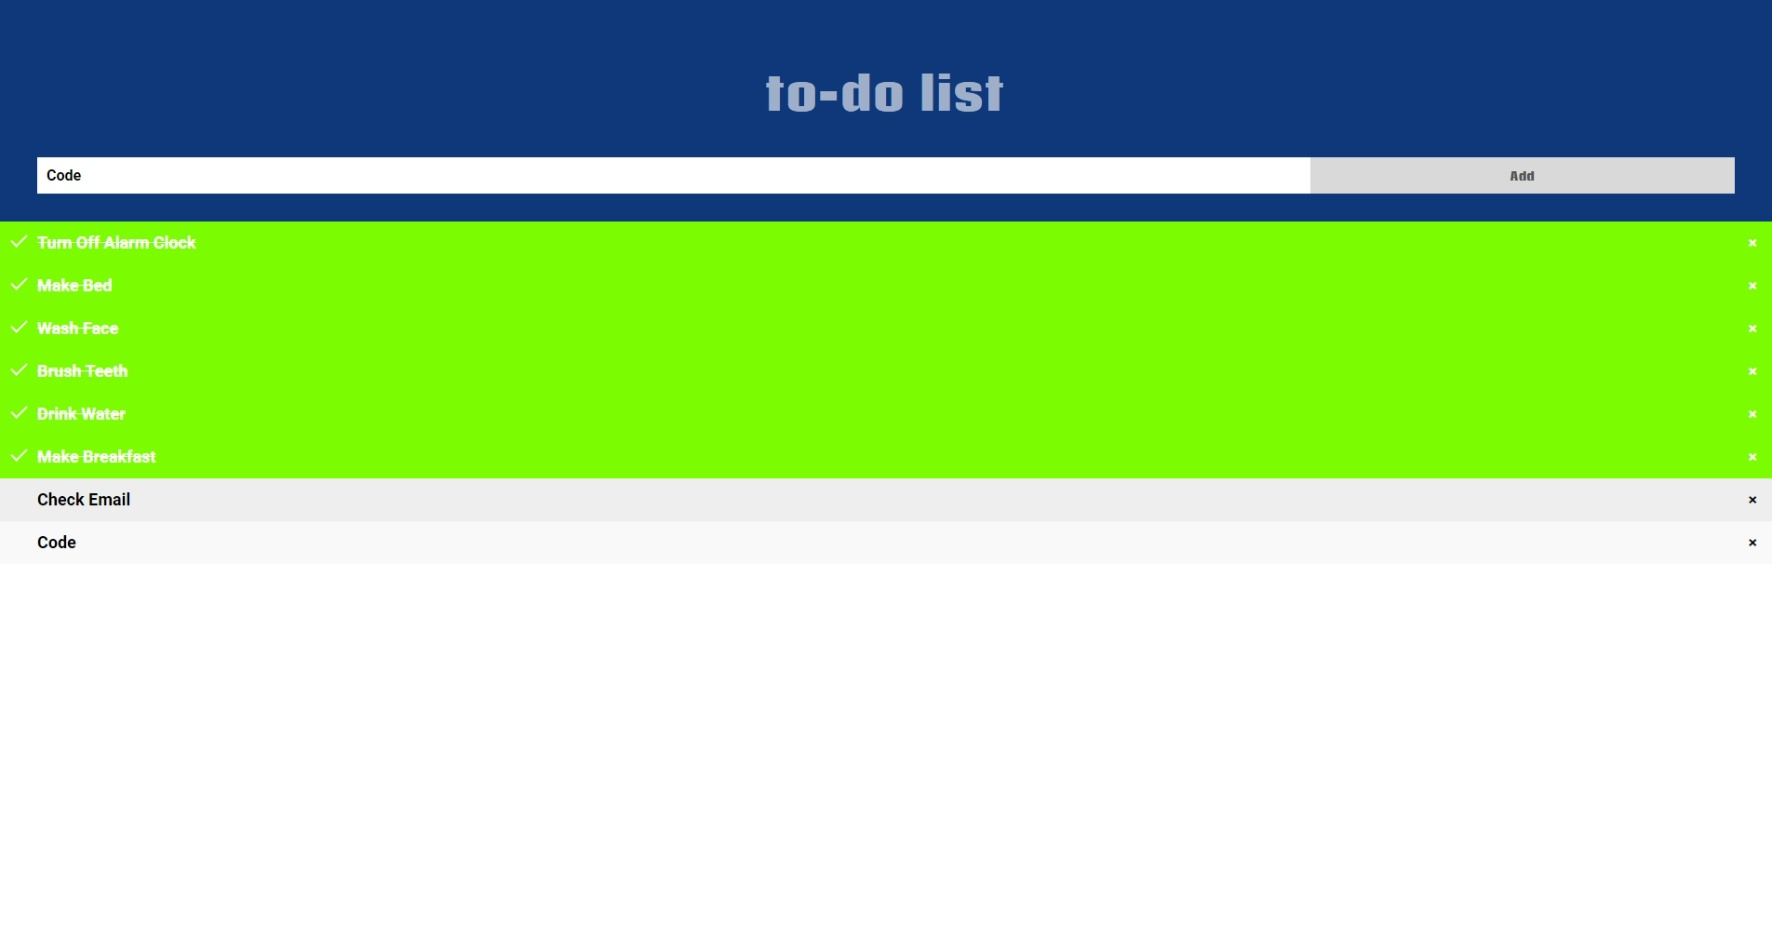
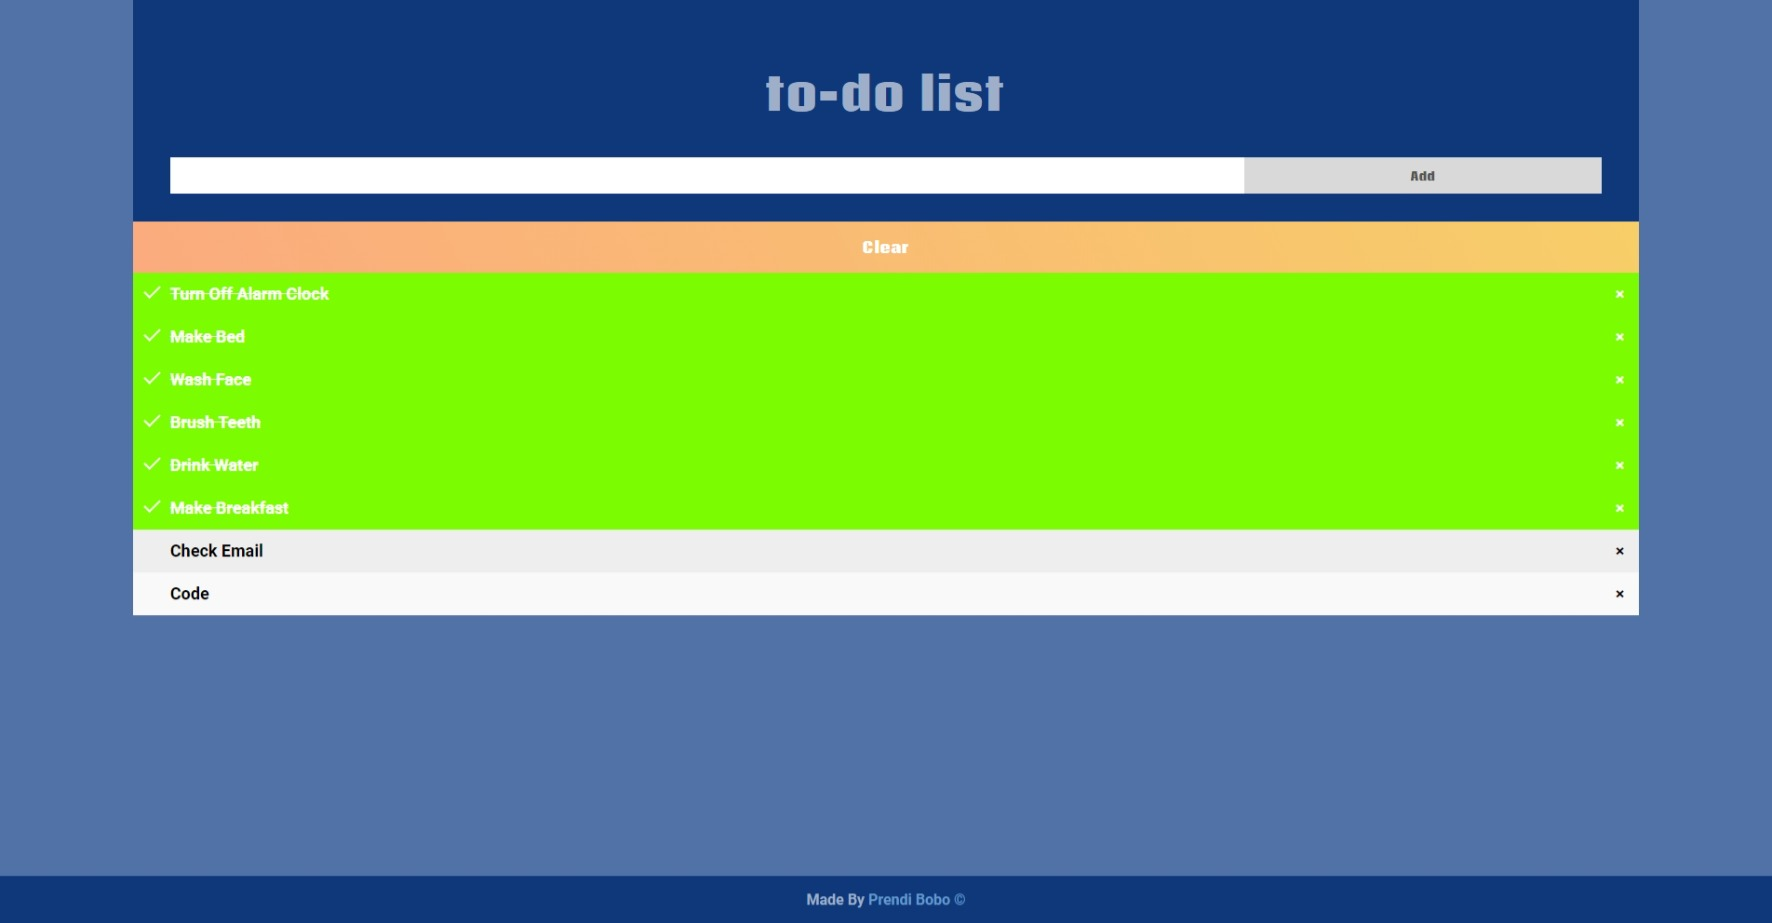
updated application 2.0

diff --git a/app.js b/app.js
@@ -1,13 +1,13 @@
 let button = document.getElementById("add-button");
 button.addEventListener('click', () => {
+    // creating new task and adding it  
     let createList = document.createElement("Li");
     createList.className = "li";
     let text = document.getElementById("input").value;
     if (text === '') {
       alert("You must write something!");
     } else {
-      // creating new task and adding it  
-      let input = document.getElementById('input');
+      let input = document.getElementById("input");
       input.value = "";
       let addOn = document.createTextNode(text);
       createList.appendChild(addOn);
@@ -29,10 +29,16 @@ button.addEventListener('click', () => {
           createList.classList.toggle('checked');
             })
         } 
+      // clear tasks pressing clear
+      let clear = document.getElementById("clear-text")
+      clear.addEventListener('click', () => {
+        createList.style.display = "none";
+      })  
     }   
 })
 
-let input = document.getElementById('input');
+// submit task using enter
+let input = document.getElementById("input");
 input.addEventListener("keyup", (event) => {
   if(event.key === 'Enter') {
     button.click();

diff --git a/style.css b/style.css
@@ -1,6 +1,7 @@
 body {
   margin: 0;
   min-width: 250px;
+  background-color: #5072A7;
 }
 
 * {
@@ -79,6 +80,9 @@ ul li.checked::before {
   color: white;
   text-align: center;
   font-size: x-large;
+  width: 85%;
+  margin-left: auto;
+  margin-right: auto;
 }
 
 .header:after{
@@ -121,6 +125,42 @@ input {
 
 li {
   font-family: 'Roboto', sans-serif;
+  margin-left: auto;
+  margin-right: auto;
+  width: 85%;
 }
 
+.footer {
+  position: fixed;
+  bottom: 0;
+  width: 100%;
+  background-color: #0e387a;
+  color: white;
+}
+
+#copyright {
+  text-align: center;
+  color: #7cfc00;
+  font-family: 'Roboto', sans-serif;
+  color: #9fafca;
+}
   
+a {
+  color: #6699CC;
+  text-decoration: none;
+}
+
+#clear-text {
+  text-align: center;
+  margin: auto;
+  width: 85%;
+  padding: 15px;
+  color: #f44336;
+  background-color: #FBAB7E;
+  background-image: linear-gradient(62deg, #FBAB7E 0%, #F7CE68 100%);
+  font-family: 'Coda', cursive;
+  font-family: 'Coda Caption', sans-serif;
+  color: white;
+  font-size: medium;
+  cursor: pointer;
+}

diff --git a/index.html b/index.html
@@ -19,7 +19,13 @@
       <input type="text" id="input">
       <button type="button" id="add-button">Add</button>
     </div> 
+    <div id="clear-box">
+      <p id="clear-text">Clear</p>
+    </div>
     <ul id="list"></ul>
+    <div class="footer">
+      <p id="copyright">Made By <a href="https://www.linkedin.com/in/prendi-bobo-030696204/">Prendi Bobo ©</a></p>
+    </div>
     <script src="./app.js"></script>
   </body>
 </html>
